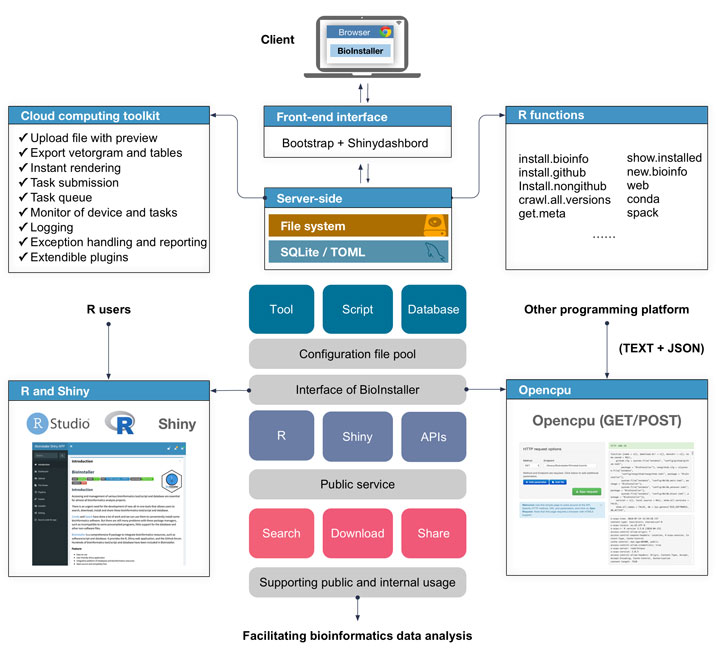
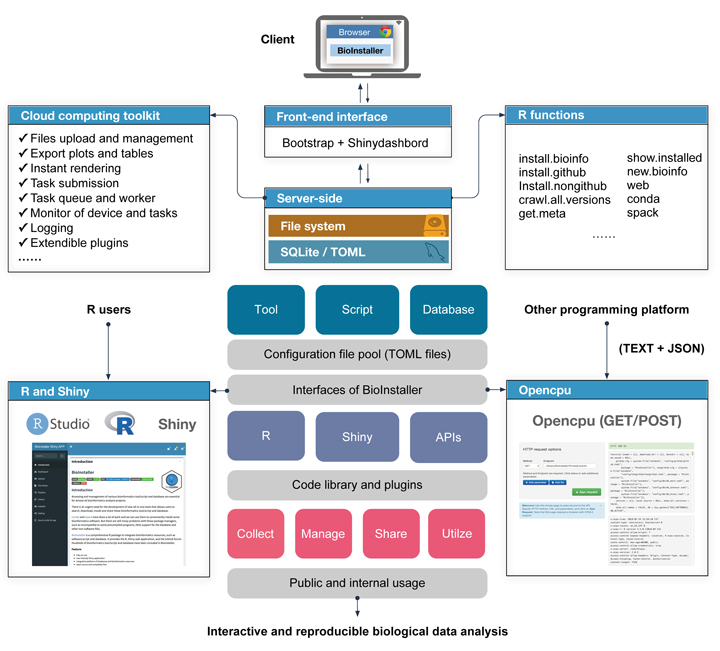
update design figure

diff --git a/README.md b/README.md
@@ -13,9 +13,9 @@ The increase in bioinformatics resources such as tools/scripts and databases pos
 
 R language, as the most popular programming language for statistics, biological data analysis, and big data, has enabled diverse and free R packages (>14000) for different types of applications. However, due to the lack of high-performance and open-source cloud platforms based on R (e.g., Galaxy for Python users), it is still difficult for R users, especially those without web development skills, to construct interactive and reproducible biological data analysis applications supporting the upload and management of files, long-time computation, task submission, tracking of output files, exception handling, logging, export of plots and tables, and extendible plugin systems.
 
-Collection, management, and share of various bioinformatics tools/scripts and databases are also essential for almost all bioinformatics analysis projects.
+The collection, management, and share of various bioinformatics tools/scripts and databases are also essential for almost all bioinformatics analysis projects.
 
-Here, we established a new platform to construct interactive and reproducible biological data analysis applications based on R language. This platform contains diverse user interfaces, including the R functions and R Shiny applitation, REST APIs, and support for collecting, managing, sharing, and utilizing massive bioinformatics tools/scripts and databases.
+Here, we established a new platform to construct interactive and reproducible biological data analysis applications based on R language. This platform contains diverse user interfaces, including the R functions and R Shiny application, REST APIs, and support for collecting, managing, sharing, and utilizing massive bioinformatics tools/scripts and databases.
 
 **Feature**:
 
